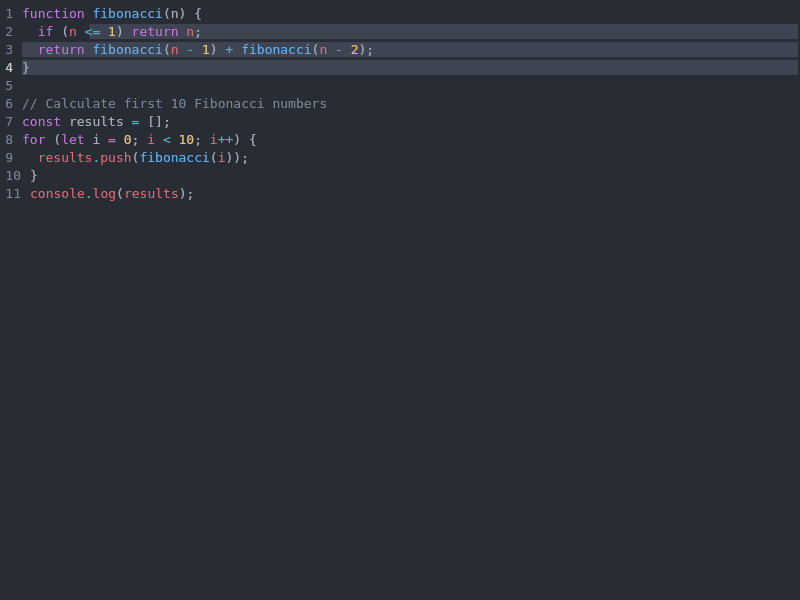
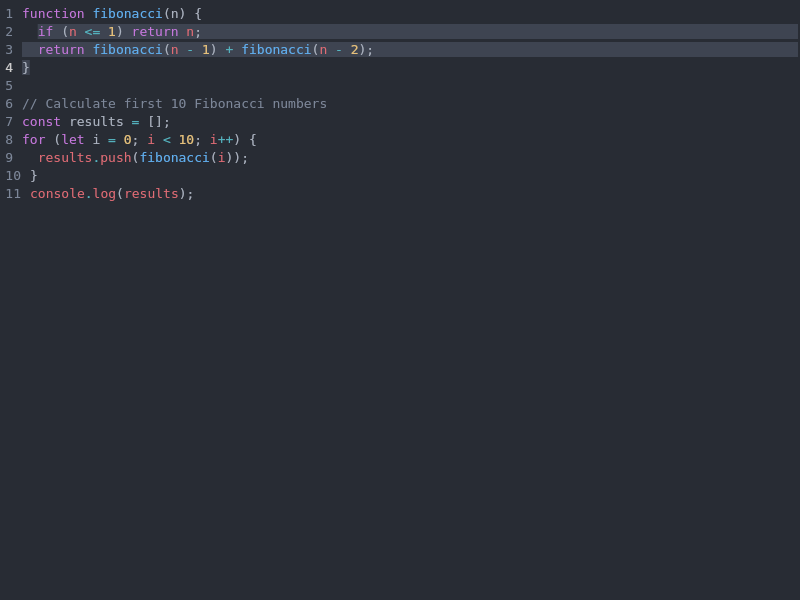
Fix selection and cursor drawing to use TextLayoutResult for accurate positioning
Rewrote SelectionDrawing.kt to use TextLayoutResult.getHorizontalPosition()
for accurate character-level x coordinates instead of a fraction-based
approach that incorrectly mapped character offsets to container width
fractions. Selections that extend to the next line now fill the full
container width.

Updated EditorViewComposable.kt to maintain a mutableStateOf<TextLayoutResult?>
per line, pass it to drawSelectionOverlay, and update it via the
BasicText onTextLayout callback.

Changed region(s): [[0.0312, 0.03, 1.0, 0.15]]

diff --git a/view/src/commonMain/kotlin/com/monkopedia/kodemirror/view/SelectionDrawing.kt b/view/src/commonMain/kotlin/com/monkopedia/kodemirror/view/SelectionDrawing.kt
@@ -25,6 +25,7 @@ import androidx.compose.ui.geometry.Offset
 import androidx.compose.ui.geometry.Size
 import androidx.compose.ui.graphics.Color
 import androidx.compose.ui.graphics.drawscope.DrawScope
+import androidx.compose.ui.text.TextLayoutResult
 import com.monkopedia.kodemirror.state.EditorState
 
 /** Extension to select the draw-selection extension. */
@@ -41,15 +42,17 @@ val drawSelection: com.monkopedia.kodemirror.state.Extension =
  * @param lineFrom Document offset of the start of this line.
  * @param lineTo  Document offset of the end of this line.
  * @param theme  Editor theme for colors.
+ * @param textLayoutResult Layout result for accurate character positioning.
  */
 @Composable
 fun Modifier.drawSelectionOverlay(
     state: EditorState,
     lineFrom: Int,
     lineTo: Int,
-    theme: EditorTheme
+    theme: EditorTheme,
+    textLayoutResult: TextLayoutResult? = null
 ): Modifier = this.drawWithContent {
-    drawLineSelection(state, lineFrom, lineTo, theme)
+    drawLineSelection(state, lineFrom, lineTo, theme, textLayoutResult)
     drawContent()
 }
 
@@ -57,37 +60,47 @@ private fun DrawScope.drawLineSelection(
     state: EditorState,
     lineFrom: Int,
     lineTo: Int,
-    theme: EditorTheme
+    theme: EditorTheme,
+    textLayoutResult: TextLayoutResult?
 ) {
     val selection = state.selection
     for (range in selection.ranges) {
         if (range.empty) {
             // Draw cursor if it falls on this line
             if (range.head in lineFrom..lineTo) {
-                drawLineCursor(range.head - lineFrom, theme.cursor)
+                drawLineCursor(range.head - lineFrom, theme.cursor, textLayoutResult)
             }
         } else {
             // Draw selection highlight if it overlaps this line
             val selFrom = maxOf(range.from, lineFrom)
             val selTo = minOf(range.to, lineTo)
             if (selFrom < selTo || (selFrom == selTo && selFrom > lineFrom)) {
+                val extendsToNextLine = range.to > lineTo
                 drawLineSelectionRange(
                     selFrom - lineFrom,
                     selTo - lineFrom,
                     lineTo - lineFrom,
-                    theme.selection
+                    theme.selection,
+                    textLayoutResult,
+                    extendsToNextLine
                 )
             }
         }
     }
 }
 
-private fun DrawScope.drawLineCursor(offsetInLine: Int, cursorColor: Color) {
-    // Approximate cursor x position from character offset
-    val lineWidth = size.width
+private fun DrawScope.drawLineCursor(
+    offsetInLine: Int,
+    cursorColor: Color,
+    textLayoutResult: TextLayoutResult?
+) {
     val lineHeight = size.height
-    // Simple proportional estimate (will be refined with TextLayoutResult)
-    val x = 0f // Cursor at start if offset is 0
+    val textLen = textLayoutResult?.layoutInput?.text?.length
+    val x = if (textLayoutResult != null && textLen != null && offsetInLine <= textLen) {
+        textLayoutResult.getHorizontalPosition(offsetInLine, true)
+    } else {
+        0f
+    }
     drawLine(
         color = cursorColor,
         start = Offset(x, 0f),
@@ -100,26 +113,39 @@ private fun DrawScope.drawLineSelectionRange(
     fromOffset: Int,
     toOffset: Int,
     lineLength: Int,
-    selectionColor: Color
+    selectionColor: Color,
+    textLayoutResult: TextLayoutResult?,
+    extendsToNextLine: Boolean
 ) {
-    val lineWidth = size.width
     val lineHeight = size.height
+    val textLen = textLayoutResult?.layoutInput?.text?.length ?: lineLength
 
-    // If the selection spans the entire line, highlight the full width
-    val startFraction = if (lineLength > 0) {
-        fromOffset.toFloat() / lineLength
+    val x: Float
+    val endX: Float
+
+    if (textLayoutResult != null) {
+        x = textLayoutResult.getHorizontalPosition(
+            fromOffset.coerceAtMost(textLen),
+            true
+        )
+        endX = if (extendsToNextLine) {
+            // Selection continues to next line — extend to full container width
+            size.width
+        } else {
+            textLayoutResult.getHorizontalPosition(
+                toOffset.coerceAtMost(textLen),
+                true
+            )
+        }
     } else {
-        0f
-    }
-    val endFraction = if (lineLength > 0) {
-        toOffset.toFloat() / lineLength
-    } else {
-        1f
+        // Fallback: fraction-based (inaccurate but better than nothing)
+        val startFraction = if (lineLength > 0) fromOffset.toFloat() / lineLength else 0f
+        val endFraction = if (lineLength > 0) toOffset.toFloat() / lineLength else 1f
+        x = startFraction * size.width
+        endX = if (extendsToNextLine) size.width else endFraction * size.width
     }
 
-    val x = startFraction * lineWidth
-    val w = (endFraction - startFraction) * lineWidth
-
+    val w = endX - x
     drawRect(
         color = selectionColor,
         topLeft = Offset(x, 0f),

diff --git a/view/src/commonMain/kotlin/com/monkopedia/kodemirror/view/EditorViewComposable.kt b/view/src/commonMain/kotlin/com/monkopedia/kodemirror/view/EditorViewComposable.kt
@@ -36,6 +36,7 @@ import androidx.compose.runtime.CompositionLocalProvider
 import androidx.compose.runtime.DisposableEffect
 import androidx.compose.runtime.LaunchedEffect
 import androidx.compose.runtime.getValue
+import androidx.compose.runtime.mutableStateOf
 import androidx.compose.runtime.remember
 import androidx.compose.runtime.setValue
 import androidx.compose.ui.Alignment
@@ -149,6 +150,7 @@ fun EditorView(state: EditorState, onUpdate: (Transaction) -> Unit, modifier: Mo
                             val capturedTop = lineTopPx
                             val capturedLineNum = item.lineNumber
                             val capturedFrom = item.from
+                            var textLayout by remember { mutableStateOf<TextLayoutResult?>(null) }
 
                             var lineModifier: Modifier = Modifier
                                 .fillMaxWidth()
@@ -177,13 +179,15 @@ fun EditorView(state: EditorState, onUpdate: (Transaction) -> Unit, modifier: Mo
                                             state,
                                             item.from,
                                             item.to,
-                                            theme
+                                            theme,
+                                            textLayout
                                         )
                                 ) {
                                     BasicText(
                                         text = item.content,
                                         style = theme.contentTextStyle,
                                         onTextLayout = { result: TextLayoutResult ->
+                                            textLayout = result
                                             lineLayoutCache.store(
                                                 capturedLineNum,
                                                 capturedFrom,